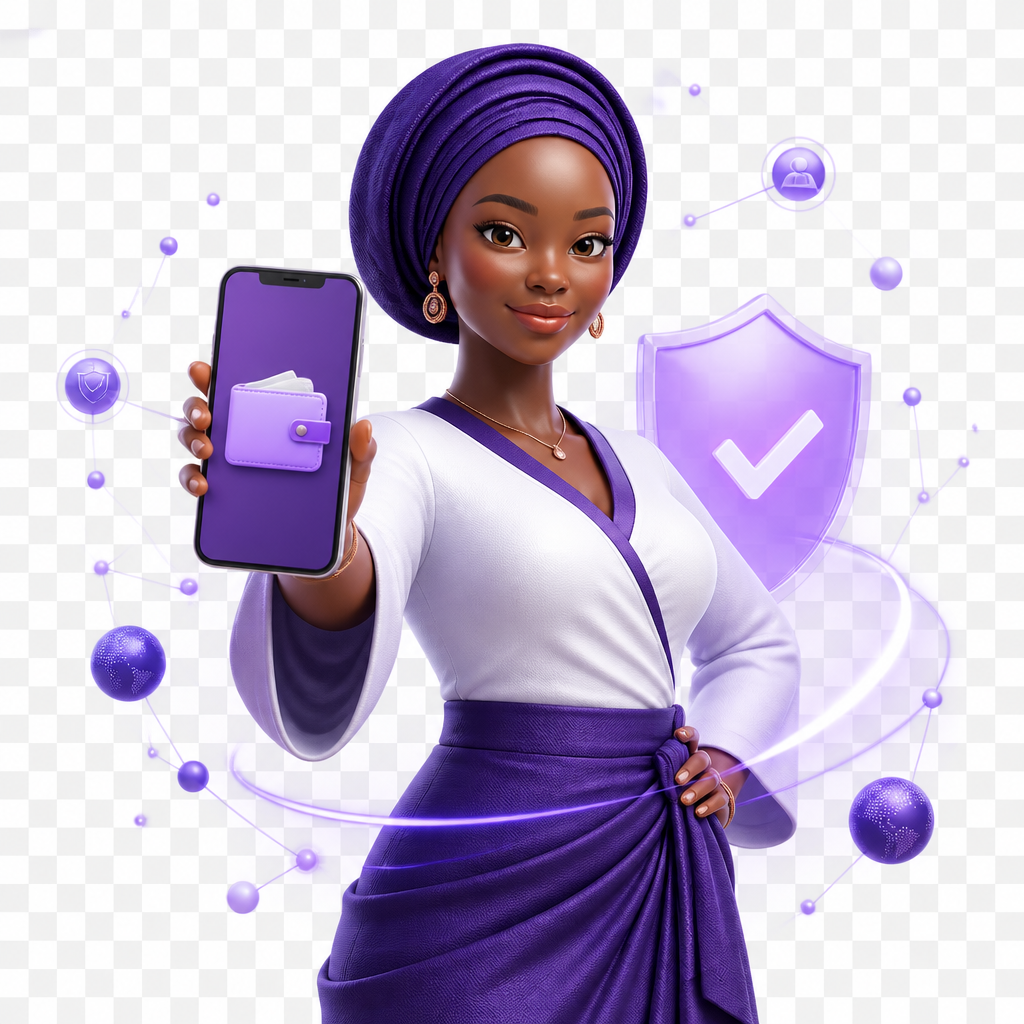
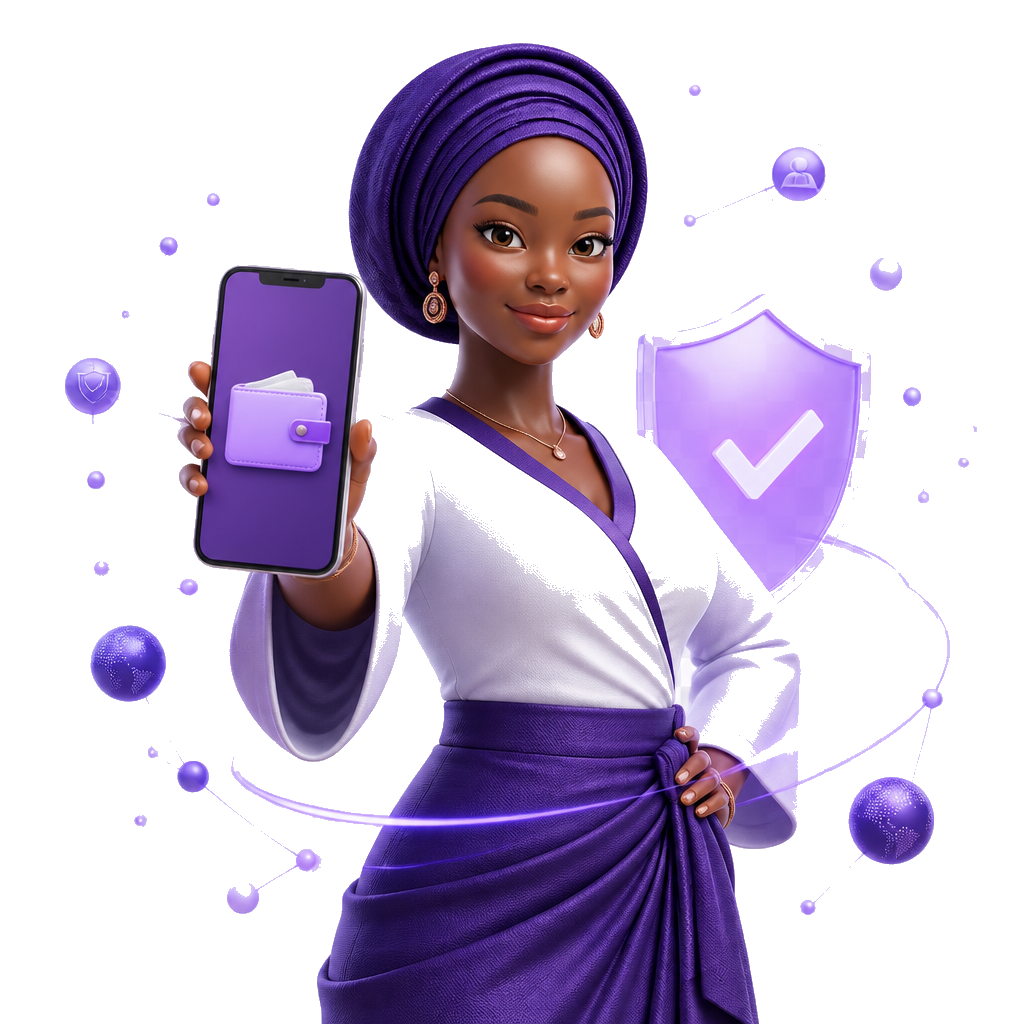
Update onboarding flow styles and add security asset
Replit-Commit-Author: Agent

diff --git a/artifacts/sendflow/src/pages/onboarding.tsx b/artifacts/sendflow/src/pages/onboarding.tsx
@@ -6,6 +6,7 @@ import sendflowWordmark from '@assets/sendflow-wordmark-original.png';
 import networkIllustration from '@assets/generated_images/sendflow-network-person-3d-transparent.png';
 import howIllustration from '@assets/generated_images/sendflow-how-person-3d-transparent.png';
 import coverageIllustration from '@assets/generated_images/sendflow-coverage-person-3d-transparent.png';
+import securityIllustration from '@assets/generated_images/sendflow-onboarding-security-3d-transparent-clean.png';
 
 const ONBOARDING_STEP_KEY = 'sendflow.onboarding-step';
 const ONBOARDING_STEP_DURATION = 5000;
@@ -34,6 +35,14 @@ const slides = [
     image: coverageIllustration,
     imageAlt: 'Femme tenant un téléphone devant une carte connectée de l’Afrique',
     accent: 'coverage',
+  },
+  {
+    eyebrow: 'Votre confiance, notre priorité',
+    title: 'Votre argent mérite une protection à la hauteur.',
+    description: 'Avec SendFlow, chaque transfert est suivi, chaque étape est claire et votre wallet reste sous votre contrôle.',
+    image: securityIllustration,
+    imageAlt: 'Femme présentant un wallet mobile protégé par un bouclier',
+    accent: 'security',
   },
 ] as const;
 

diff --git a/artifacts/sendflow/src/index.css b/artifacts/sendflow/src/index.css
@@ -881,6 +881,13 @@
   transform: translateX(-50%) rotate(-4deg);
 }
 
+.sendflow-onboarding-visual.is-security .sendflow-onboarding-visual-backdrop {
+  top: 12%;
+  width: min(86%, 370px);
+  background: #e8ddff;
+  transform: translateX(-50%) rotate(5deg);
+}
+
 .sendflow-onboarding-visual img {
   display: block;
   width: min(100%, 470px);
@@ -900,6 +907,10 @@
 
 .sendflow-onboarding-visual.is-coverage img {
   width: min(109%, 540px);
+}
+
+.sendflow-onboarding-visual.is-security img {
+  width: min(107%, 535px);
 }
 
 .sendflow-onboarding-actions {
